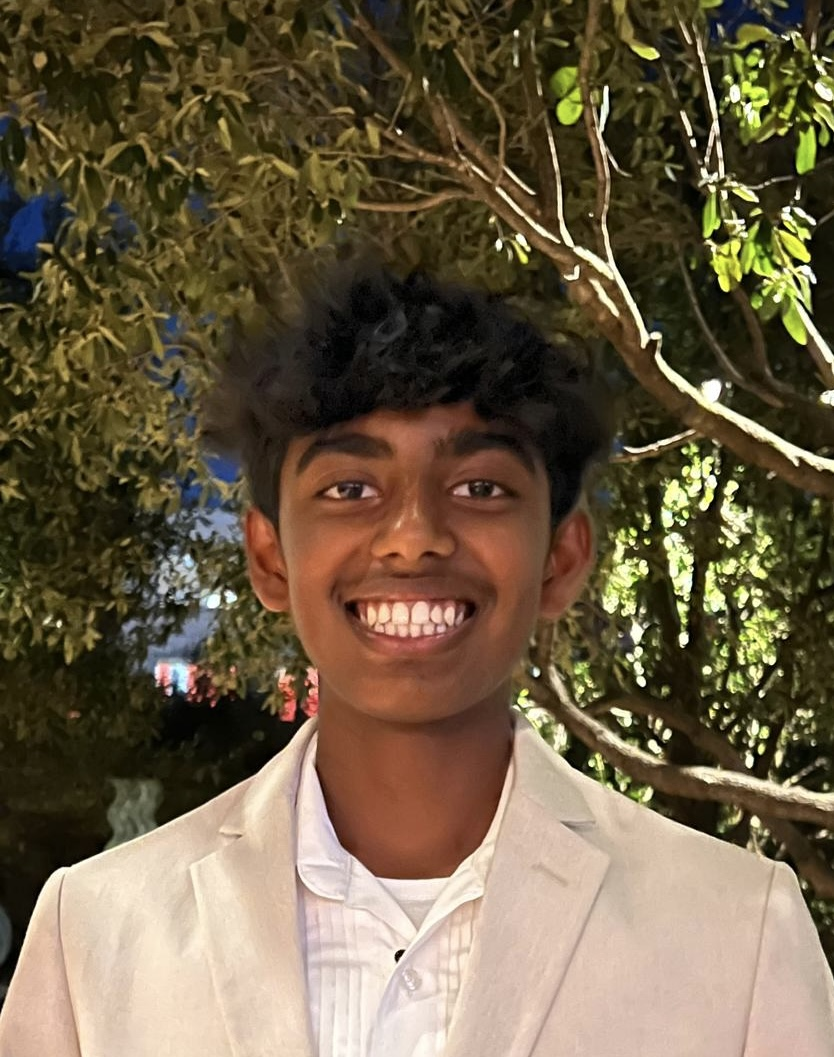
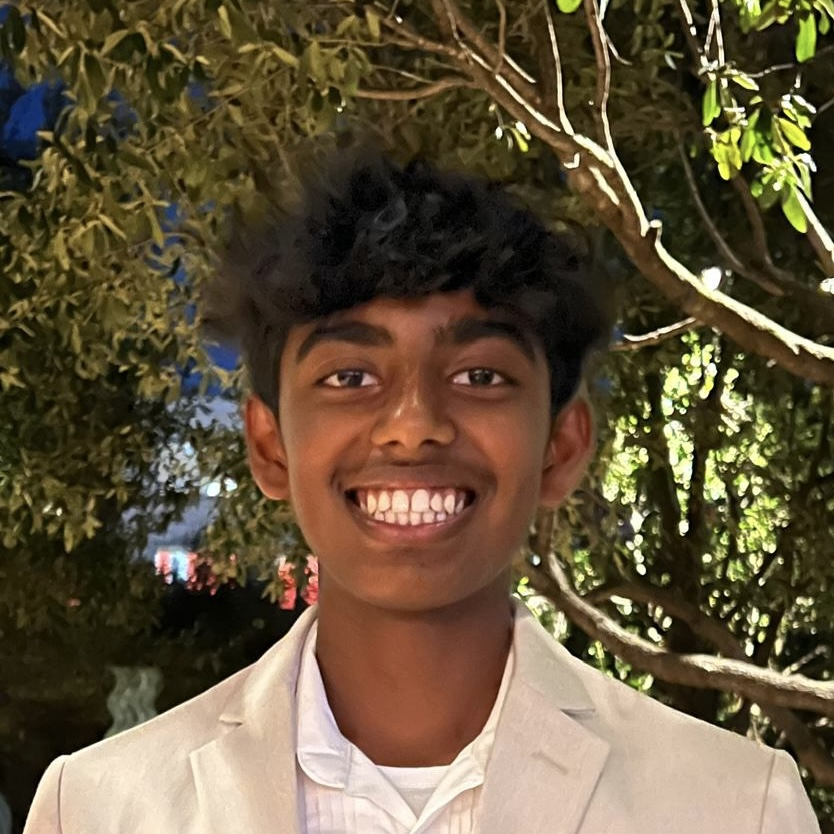
fixed tech team
fixed all of tech team picture sizing

diff --git a/team.html b/team.html
@@ -279,7 +279,7 @@
     
         <a href="https://www.linkedin.com/in/vaibhavgollapalli/" target="_blank" style="text-decoration: none;">
             <div class="person">
-                <img src="images/fai-2627-team/Vaibhav Gollapalli - Technical Manager.JPG" alt="">
+                <img src="images/fai-2627-team/Vaibhav Gollapalli - Technical Manager.jpg" alt="">
                 <div class="name">Vaibhav Gollapalli</div>
                 <div class="title">Technical Manager</div>
             </div>
@@ -287,7 +287,7 @@
     
         <a href="https://www.linkedin.com/in/sanshrey-neelee-a799a4355/" target="_blank" style="text-decoration: none;">
             <div class="person">
-                <img src="images/fai-2627-team/Sanshrey Neelee - Technical Manager.JPG" alt="">
+                <img src="images/fai-2627-team/Sanshrey Neelee - Technical Manager.jpg" alt="">
                 <div class="name">Sanshrey Neelee</div>
                 <div class="title">Technical Manager</div>
             </div>
@@ -295,7 +295,7 @@
     
         <a href="" target="_blank" style="text-decoration: none;">
             <div class="person">
-                <img src="images/fai-2627-team/Yash Menon - Technical Manager.JPEG" alt="">
+                <img src="images/fai-2627-team/Yash Menon - Technical Manager.jpg" alt="">
                 <div class="name">Yash Menon</div>
                 <div class="title">Technical Manager</div>
             </div>
